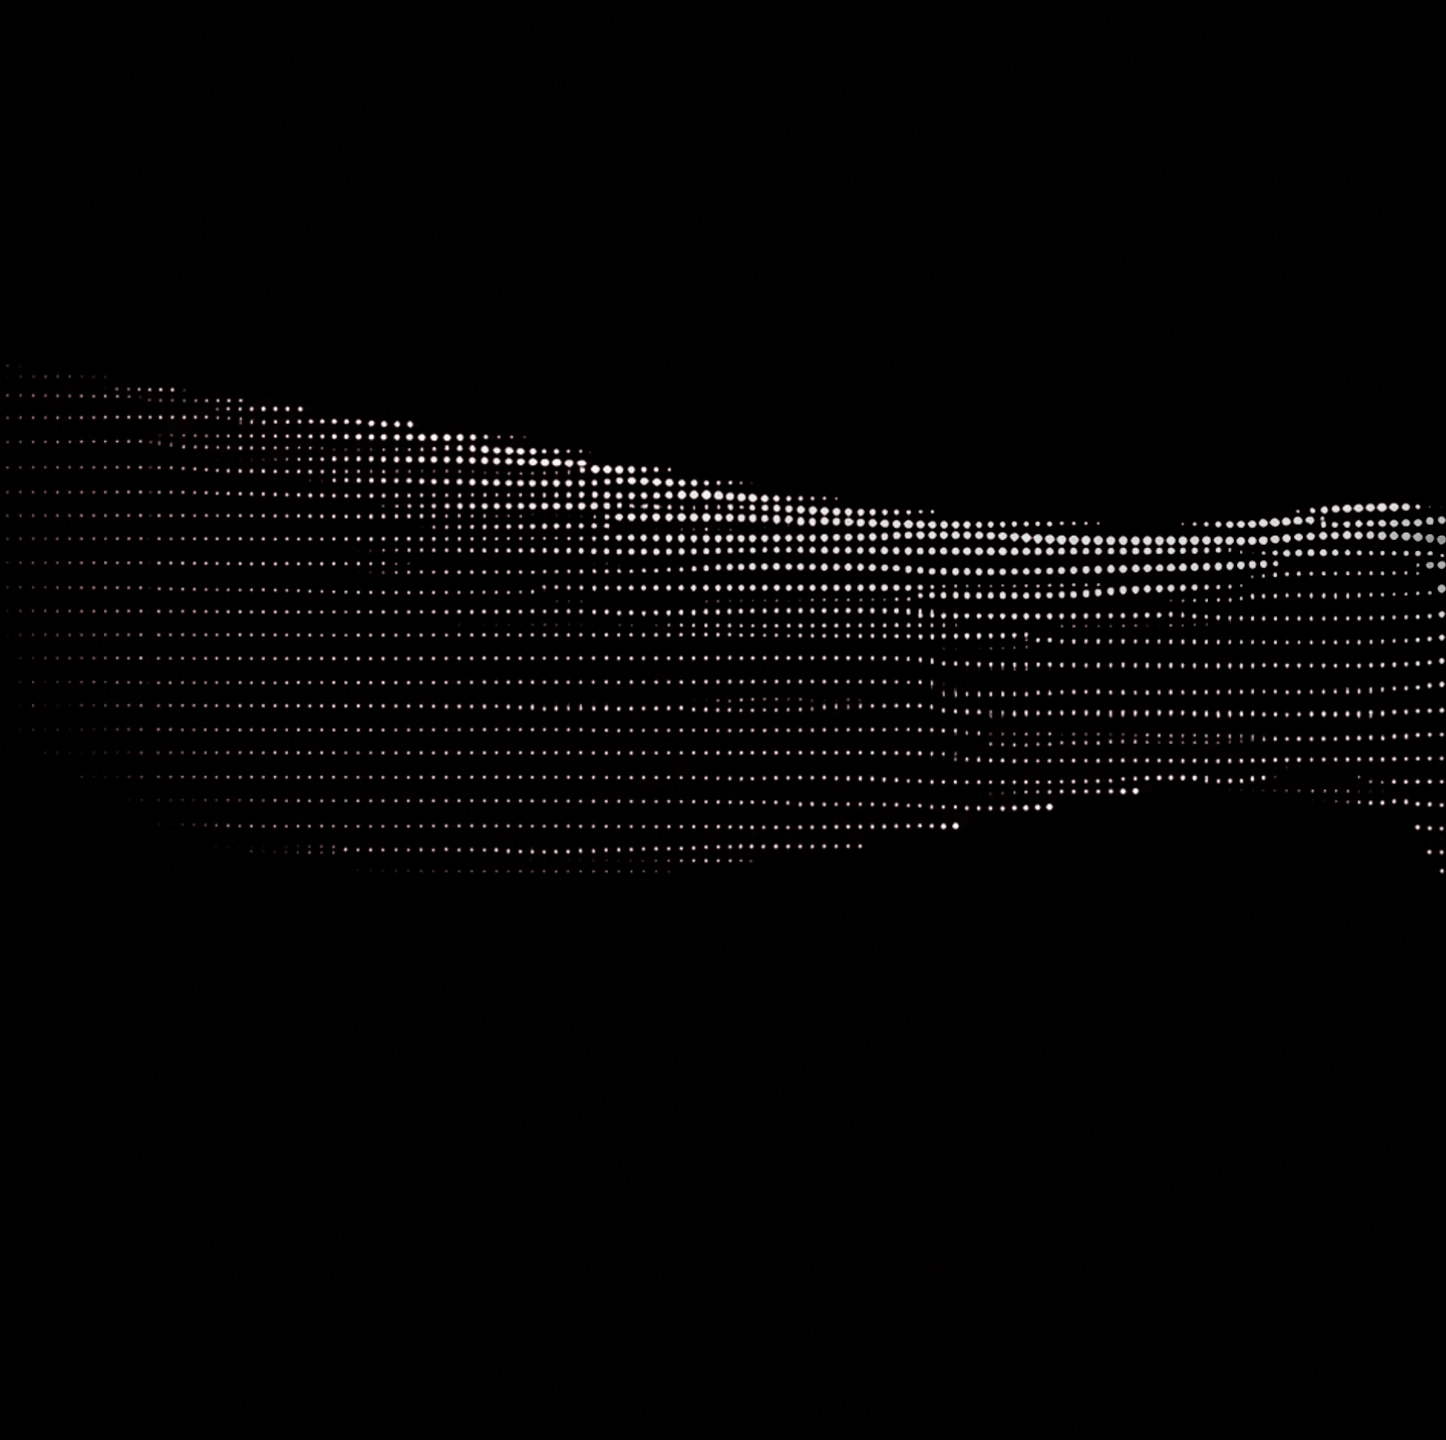
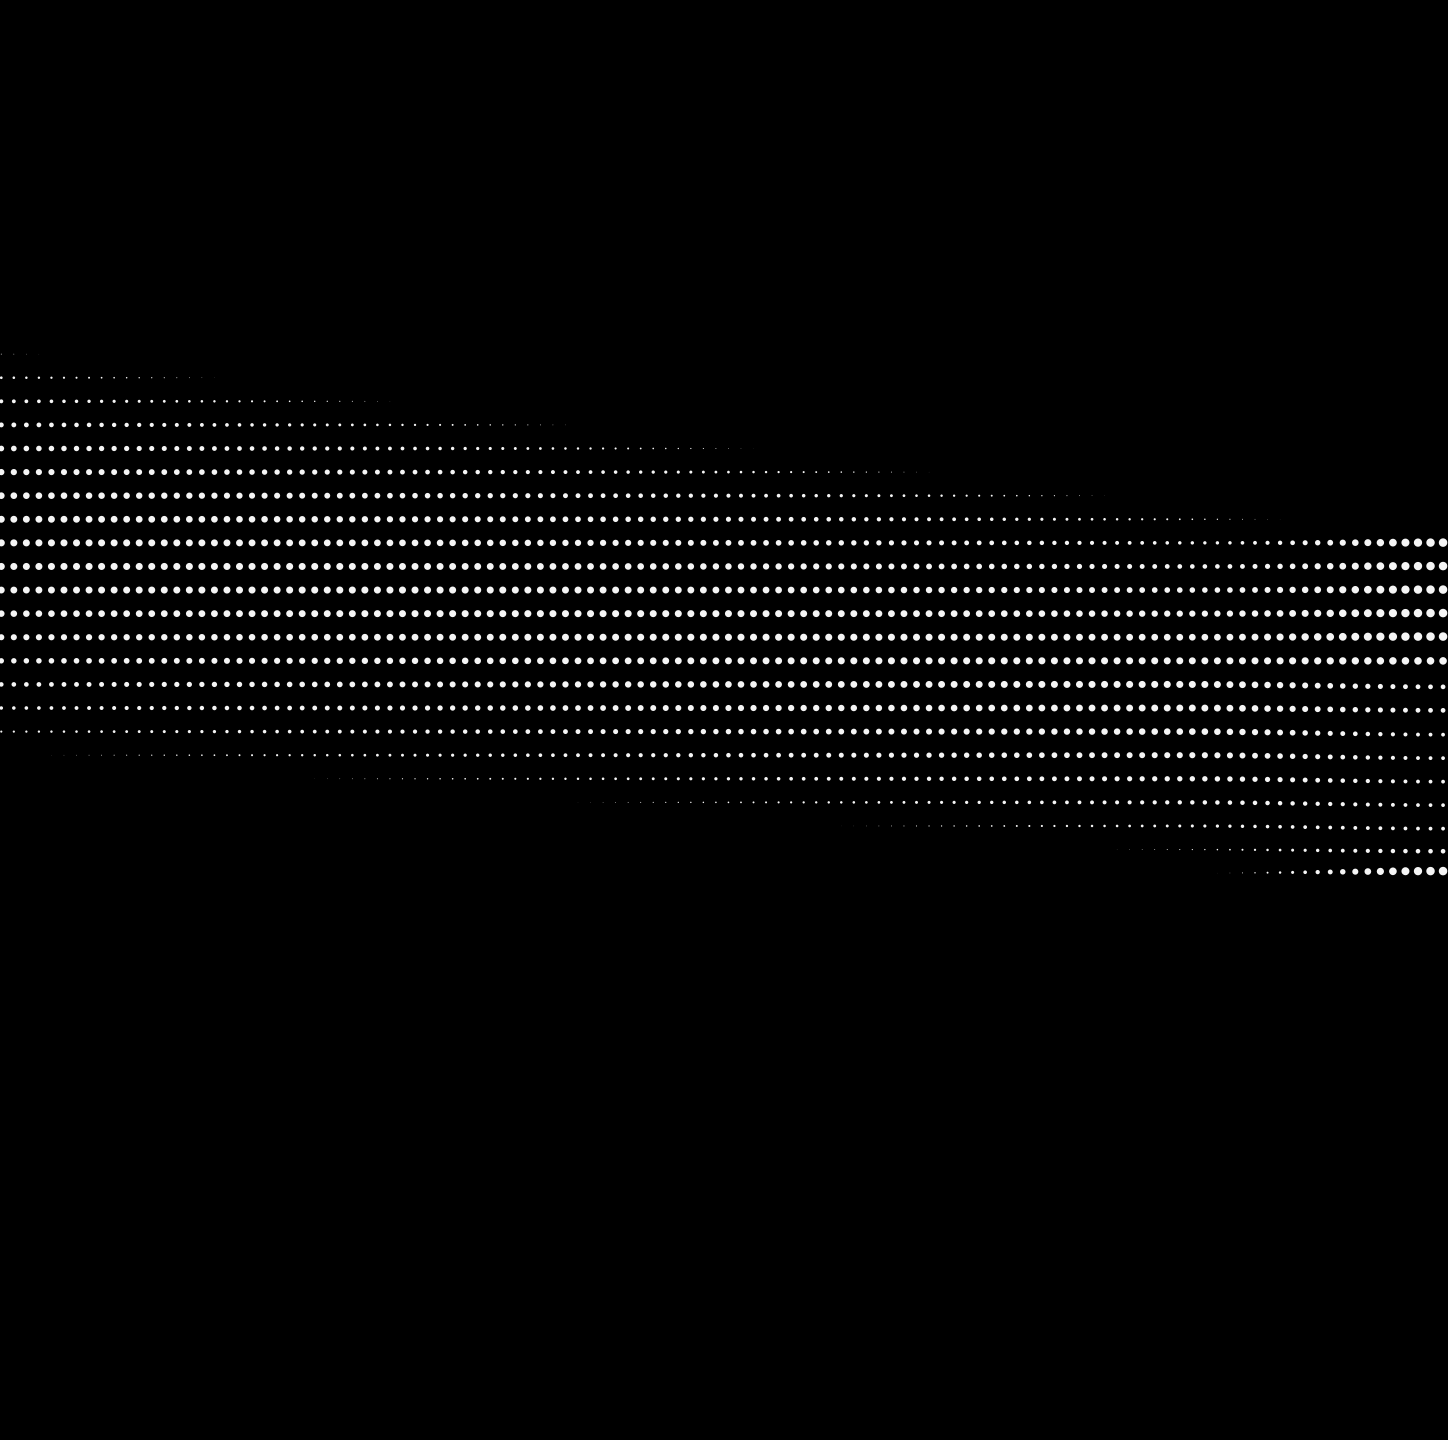
Align Vantablack forearms with the source dot grid

Changed region(s): [[0.0, 0.2812, 1.0, 0.625]]

diff --git a/docs/ultrawide-backgrounds.md b/docs/ultrawide-backgrounds.md
@@ -16,6 +16,8 @@ Uniform backgrounds behind wordmarks and isolated motifs use the original field 
 
 The dotted forearm extensions use a grid registered to the original dot positions and sizes. The original hands, fingertip spacing, and credit remain in the unchanged center raster. These source-derived panels use lossless WebP.
 
+Matte Black and Vantablack share the same canonical hand drawing and the same source-registered forearm extensions.
+
 Painted scenery matches the original interior palette separately from its darker scan edges. Corrections at the joins affect the side panels only.
 
 [The provenance manifest](assets/ultrawide/provenance.json) records the source hashes, extension methods, and generation prompts. [The gallery](assets/ultrawide/gallery.md) shows all complete 32:9 compositions for review. Boot intro videos retain their existing framing.

diff --git a/docs/assets/ultrawide/gallery.md b/docs/assets/ultrawide/gallery.md
@@ -4,6 +4,8 @@ All 98 compositions, rendered at 5120×1440 and reduced for this review gallery.
 
 [Before and after: Gruvbox 1–2, Last Horizon 2–4, and Matte Black 2](revision-comparison.webp). All original center artwork remains unchanged.
 
+[Vantablack 0: before and after the arm correction](vantablack-arms.webp).
+
 ## catppuccin, catppuccin-latte, ethereal, everforest
 
 ![32:9 background review sheet 1](gallery-1.webp)
